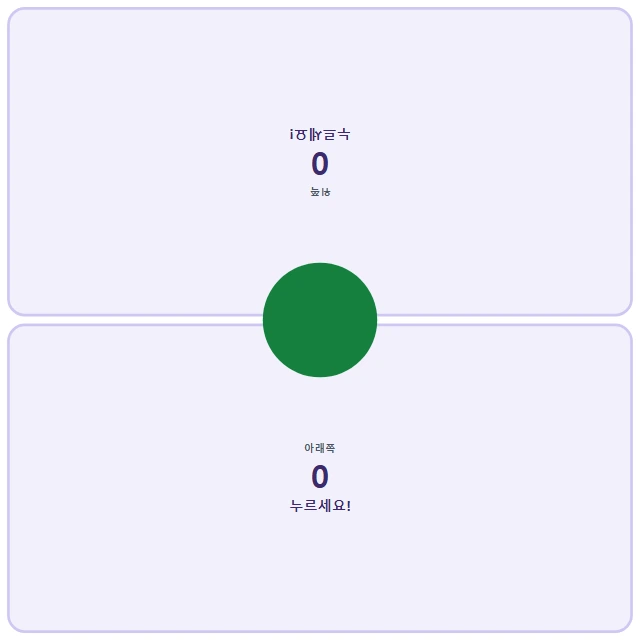
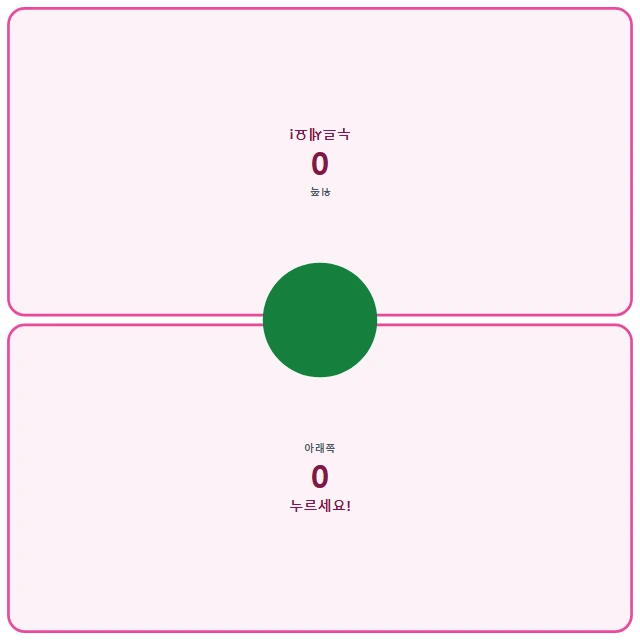
style(together): 분류 색 규약 적용 — 2인용은 pink #db2777
색 규약(오너 승인 2026-09-05 · round/PALETTE_by_category.md)을 이 게임에 적용한다.
22종 중 17종이 같은 보라였던 것은 새 게임이 직전 게임을 본보기로 삼다가 색까지 물려받았기
때문이고, 대문 카드가 전부 같은 색이면 색이 정보가 되지 못한다.

세 토큰을 한 벌로 정하고 ★각각 이 파일의 실제 배경 토큰에 대고 쟀다(눈으로 정하지 않았다):
  라이트(배경 #ffffff · 판 #f6f7f9) sig #db2777 4.60 · ink #be185d 6.04(판 위 5.63)
                                    soft #fce7f3 위의 본문 글자 15.09 · 버튼 글자 4.60
  다크  (배경 #0c0a24 · 판 #191540) sig #f472b6 7.31(판 위 6.49) · ink #f9a8d4 10.68
                                    soft #831843 위의 본문 글자 8.57 · 버튼 글자 5.68
하한 3.0(양 테마)을 여섯 값 전부 넘는다.

★지시 밖이지만 함께 옮긴 것 하나 — 판(--pad 계열)이다. 대문 카드에 실리는 그림은 판이라,
판이 보라인 채로 두면 카드는 여전히 보라로 보이고 규약의 목적이 서지 않는다. 실측:
라이트 판 글자 8.84 · ★테두리 3.23(칸 경계는 뜻을 지닌 UI 라 3.0 이상) · 다크 15.01 · 3.84.
결과 표시 글자 8.78/7.90(라이트) · 7.75/11.90(다크), 신호 그림은 판 위에서 4.59~9.30 이라
모양이 색과 무관하게 읽힌다. 사이트 공통 크롬(--bg·--panel)은 건드리지 않았다.

★--sig-soft 를 실제로 쓰게 했다(결과 창의 위쪽 사람 몫 판 배경) — 선언만 해 두면 조용히 낡는다.

★검사가 값을 베끼지 않도록 색 규약 정본을 저장소 안에 두었다: tools/palette_by_category.json
(분류→색·하한). games.json 과 대문 FALLBACK 에 category:'two-player' 를 달았다
(check_home_sync 가 항목 전체를 대조하므로 두 자리가 같아야 한다). 액션 3의 검증기가
①--sig 가 자기 분류 색과 같은가 ②세 토큰 대비비가 양 테마 하한 이상인가를 ★소스에서 읽어 계산한다.

썸네일은 새 색으로 다시 찍었다(가라 신호 순간 · 640x640 · 7,264B · 두 도구 대조).
연기시험 33항목 PASS · 게이트 5종 rc=0(home_sync 22종 · page_assets · precache_integrity ·
today_pool · privacy_storage).

Claude-Session: https://claude.ai/code/session_012AA7V39ZiBPnAYrHkjTyBm

Changed region(s): [[0.0, 0.0, 1.0, 1.0], [0.4688, 0.7188, 0.5625, 0.8125], [0.4375, 0.1875, 0.5312, 0.2812]]

diff --git a/together/index.html b/together/index.html
@@ -43,13 +43,29 @@
      라이트(흰 바탕)가 기본. 다크는 아래 @media 에서 같은 이름의 값만 바꿔 끼운다 — 마크업은 두 테마가 동일하다.
      ★이 게임에서 색은 거들 뿐이다: 신호는 ★모양(꽉 찬 원 / X)이 뜻을 지니고, 각 절반의 글자가 함께 말한다.
        두 절반은 ★같은 토큰을 쓴다 — 한쪽만 다른 색을 주면 눈에 띄는 쪽이 유리해질 수 있다. */
+  /* ★분류가 색을 정한다(색 규약 2026-09-05 · 오너 승인) — 이 게임의 분류는 ★2인용이고 그 색은
+     pink #db2777 이다. 22종 중 17종이 같은 보라였던 것은 새 게임이 직전 게임을 본보기로 삼다가
+     색까지 물려받았기 때문이고, 대문 카드가 전부 같은 색이면 색이 정보가 되지 못한다.
+     ★세 토큰이 한 벌이다(--sig 주색 · --sig-ink 진한 쪽 글자 · --sig-soft 옅은 쪽 배경) ·
+     ★대비비는 눈으로 정하지 않고 잰다. 아래는 이 파일의 실제 배경 토큰에 대고 잰 값이다
+     (라이트 배경 #ffffff · 판 #f6f7f9 / 다크 배경 #0c0a24 · 판 #191540 · 글자 #f1f0ff):
+       라이트  sig 4.60 · ink 6.04(판 위 5.63) · soft 위의 본문 글자 15.09 · 버튼 글자 4.60
+       다크    sig 7.31(판 위 6.49) · ink 10.68 · soft 위의 본문 글자 8.57 · 버튼 글자 5.68
+     ★판(--pad 계열)도 함께 옮긴다 — 대문 카드에 실리는 그림은 판이라, 판이 보라인 채로 두면
+       카드는 여전히 보라로 보이고 규약의 목적(색이 정보가 된다)이 서지 않는다. 실측:
+       라이트  판 글자 8.84 · ★테두리 3.23(칸 경계는 뜻을 지닌 UI 라 3.0 이상이어야 한다)
+       다크    판 글자 15.01 · 테두리 3.84
+       결과 표시 글자는 이김 8.78/7.75 · 잃음 7.90/11.90 이고, 신호 그림은 판 위에서
+       라이트 원 4.59 · X 5.93 / 다크 원 9.18 · X 9.30 이라 모양이 색과 무관하게 읽힌다.
+     하한은 양 테마 3.0(큰 글자·아이콘 WCAG)이고 위 값 전부 그 위다. 검사는 이 숫자를 베끼지
+     않고 ★소스에서 읽어 다시 계산한다 — 값을 옮겨 적으면 그때부터 검사가 계약이 아니라 사본을 잰다. */
   :root{
     --bg:#ffffff; --panel:#f6f7f9; --panel2:#eceff3; --line:#e5e7eb;
     --text:#111827; --muted:#6b7280; --muted-2:#4b5563;
-    --sig:#7c3aed; --sig-ink:#5b21b6; --sig-soft:#ede9fe; --on-sig:#ffffff;
+    --sig:#db2777; --sig-ink:#be185d; --sig-soft:#fce7f3; --on-sig:#ffffff;
     --good:#15803d; --good-ink:#166534; --good-soft:#dcfce7;
     --warn:#a16207; --bad:#b91c1c; --bad-ink:#991b1b; --bad-soft:#fee2e2;
-    --pad:#f1f0fb; --pad-line:#cfc7f3; --pad-ink:#3b2a6d;
+    --pad:#fdf2f8; --pad-line:#ec4899; --pad-ink:#831843;
     --go:#15803d; --go-soft:#dcfce7; --hold:#b91c1c; --hold-soft:#fee2e2;
     --scrim:rgba(17,24,39,.55); --shadow:rgba(17,24,39,.18); --ad-bg:rgba(17,24,39,.03);
     --safe-b:env(safe-area-inset-bottom,0px);
@@ -58,10 +74,10 @@
     :root{
       --bg:#0c0a24; --panel:#191540; --panel2:#241f5c; --line:#332c78;
       --text:#f1f0ff; --muted:#a5a1d8; --muted-2:#c9c6ec;
-      --sig:#a78bfa; --sig-ink:#c4b5fd; --sig-soft:#2e2670; --on-sig:#2e1065;
+      --sig:#f472b6; --sig-ink:#f9a8d4; --sig-soft:#831843; --on-sig:#500724;
       --good:#34d399; --good-ink:#bbf7d0; --good-soft:#14532d;
       --warn:#fbbf24; --bad:#fca5a5; --bad-ink:#fecaca; --bad-soft:#4c1d1d;
-      --pad:#191540; --pad-line:#453da0; --pad-ink:#e9e6ff;
+      --pad:#2a0f22; --pad-line:#db2777; --pad-ink:#fce7f3;
       --go:#34d399; --go-soft:#14532d; --hold:#fca5a5; --hold-soft:#4c1d1d;
       --scrim:rgba(6,4,24,.86); --shadow:rgba(0,0,0,.5); --ad-bg:rgba(255,255,255,.02);
     }
@@ -137,7 +153,7 @@
   .card-box .new{color:var(--good);font-weight:700;font-size:.9rem;margin-bottom:6px;min-height:1.2em}
   .card-box .reason{font-size:.95rem;font-weight:600;margin:2px 0 6px;min-height:1.2em;color:var(--muted-2)}
   /* ★결과 문안은 두 사람이 마주 본 채로 읽는다 — 위쪽 사람 몫을 180도 돌려 한 벌 더 둔다 */
-  .tg-mirror{transform:rotate(180deg);border-bottom:1px solid var(--line);padding-bottom:10px;margin-bottom:10px}
+  .tg-mirror{transform:rotate(180deg);background:var(--sig-soft);border:1px solid var(--line);border-radius:12px;padding:10px;margin-bottom:12px}
   .btn{display:block;width:100%;border:0;border-radius:12px;padding:14px;font-size:1.05rem;font-weight:700;cursor:pointer;margin-top:8px}
   .btn.primary{background:var(--sig);color:var(--on-sig)}
   .btn.ghost{background:var(--panel2);color:var(--text);border:1px solid var(--line)}

diff --git a/index.html b/index.html
@@ -540,7 +540,7 @@ const FALLBACK = [{
   desc:{ko:'한 화면을 위아래로 갈라 마주 보고 겨루는 2인용 반응 게임 — 신호에 먼저 누르면 1점, 참아야 할 신호에 누르면 실점',en:'A two-player reaction game on a single screen — press first to score, but press on the hold signal and the point goes to the other side'},
   thumb:'/together/thumb.webp',
   playtime:{ko:'한 판 1분',en:'1 min a round'},
-  maxMinutes:1, daily:true, solo:false, released:'2026-09-05', tags:['reaction','party','casual','daily']
+  maxMinutes:1, daily:true, solo:false, category:'two-player', released:'2026-09-05', tags:['reaction','party','casual','daily']
 }];
 
 let games = FALLBACK;
